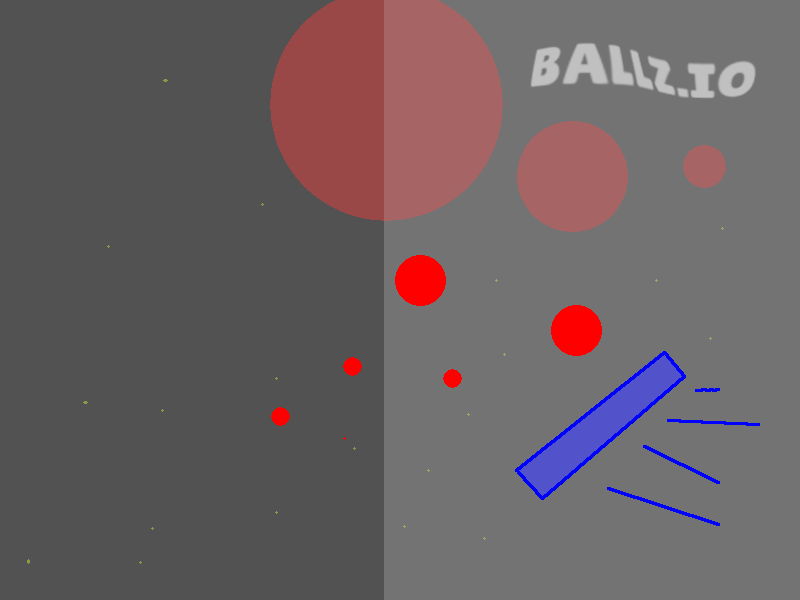
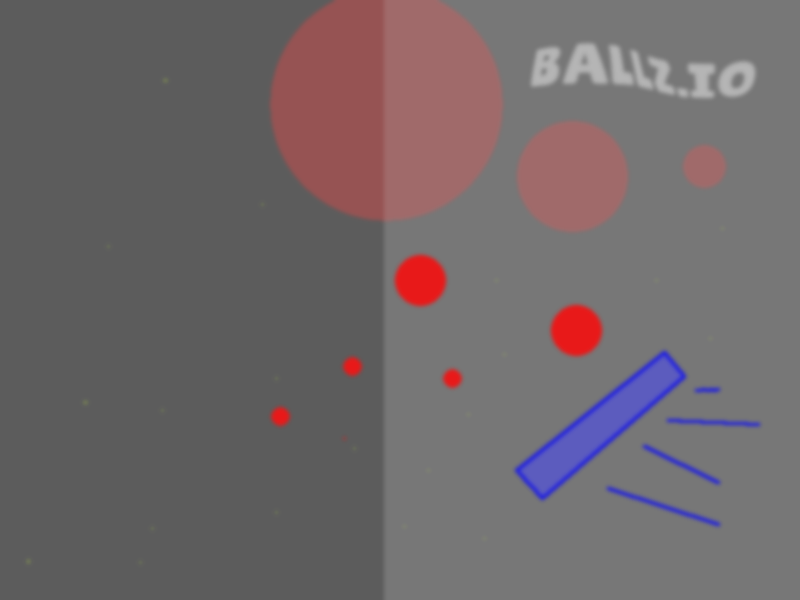
cbej

diff --git a/main.py b/main.py
@@ -19,6 +19,14 @@ def preprop_img():
         img.save(f"tmp/bavkgrounds/{i}.png")
     img = Image.open("bavkgrounds/3.png")
     img.save("tmp/bavkgrounds/3.png")
+    img=Image.open("main.png")
+    img = img.filter(ImageFilter.GaussianBlur(2))
+    img = img.point(lambda p: p * 0.9)
+    img.save("mainbg.png")
+    img=Image.open("main.png")
+    img = img.filter(ImageFilter.GaussianBlur(5))
+    img = img.point(lambda p: p * 0.5)
+    img.save("shop.png")
 
 preprop_img()
 previous_time = time.time()
@@ -119,7 +127,31 @@ class bullet:
     def update(self):
         self.x += self.speed * math.sin(math.radians(self.direction))
         self.y -= self.speed * math.cos(math.radians(self.direction))
+font3 = pygame.font.SysFont('arial', 30)
+skins_available = ["blue", "green", "yellow", "purple"]
+skins_color = [BLUE, GREEN, YELLOW, (128, 0, 128)]
+skin = 0
+skin_selector = RadialMenu((0, SCREEN_HEIGHT // 2), 200, skins_available + ["back to main menu"], font3)
+def draw_skin_shop():
+    global skin
+    screen.fill(WHITE)
+    title_font = pygame.font.SysFont('arial', 40)
+    option_font = pygame.font.SysFont('arial', 30)
 
+    title_text = title_font.render("Skin Shop", True, BLACK)
+    screen.blit(title_text, (SCREEN_WIDTH // 2 - title_text.get_width() // 2, 50))
+
+    img=pygame.image.load("shop.png")
+    screen.blit(img, (0,0))
+
+    skin_text = option_font.render(f"Current Skin: {skins_available[skin]}", True, BLACK)
+    screen.blit(skin_text, (SCREEN_WIDTH // 2 - skin_text.get_width() // 2, 100))
+    skin_selector.render(screen)
+
+    #render basket with  skin
+    draw_rotated_rect(screen, skins_color[skin], (SCREEN_WIDTH//4*3, SCREEN_HEIGHT//2), (BASKET_WIDTH, BASKET_HEIGHT), 0)
+
+    pygame.display.flip()
 def draw_main_menu():
     screen.fill(WHITE)
     title_font = pygame.font.SysFont('arial', 40)
@@ -274,7 +306,7 @@ def draw_screen(balls):
     if BROKEN:
         draw_rotated_rect(screen, RED, basket.center, (BASKET_WIDTH, BASKET_HEIGHT), basket_dir)
     else:
-        draw_rotated_rect(screen, BLUE, basket.center, (BASKET_WIDTH, BASKET_HEIGHT), basket_dir)
+        draw_rotated_rect(screen, skins_color[skin], basket.center, (BASKET_WIDTH, BASKET_HEIGHT), basket_dir)
     if currstage != 3:
         for ball in balls:
             pygame.draw.circle(screen, RED, (ball["x"], ball["y"]), BALL_RADIUS)
@@ -510,6 +542,7 @@ def main():
     global currstage
     global tip1_act
     global tip2_act
+    global skin
     global tip3_act
     global tip4_act
     global tip5_act
@@ -546,6 +579,7 @@ def main():
     help_running = False
     running = False
     stats_running = False
+    shop_running = False
     card = False
     boss = False
     global volume
@@ -576,20 +610,41 @@ def main():
                             pygame.mixer.music.load("game.mp3")
                             pygame.mixer.music.play(-1)
                         elif main_radbar.get_index() == 1:
-                            options_running = True
+                            shop_running = True
                             menu_running = False
                         elif main_radbar.get_index() == 2:
+                            options_running = True
+                            menu_running = False
+                        elif main_radbar.get_index() == 3:
                             help_running = True
                             menu_running = False
-                        elif main_radbar.get_index() == 4:
+                        elif main_radbar.get_index() == 5:
                             menu_running = False
                             pygame.quit()
                             sys.exit()
-                        elif main_radbar.get_index() == 3:
+                        elif main_radbar.get_index() == 4:
                             stats_running = True
                             menu_running = False
                     else:
                         main_radbar.update(event.key)
+            clock.tick(FPS*4)
+        if shop_running:
+            draw_skin_shop()
+            for event in pygame.event.get():
+                if event.type == pygame.QUIT:
+                    shop_running = False
+                    pygame.quit()
+                    sys.exit()
+                elif event.type == pygame.KEYDOWN:
+                    if event.key == pygame.K_RETURN:
+                        if skin_selector.get_index() == 4:
+                            shop_running = False
+                            menu_running = True
+                        else:
+                            skin = skin_selector.get_index()
+                            print(skin)
+                    else:
+                        skin_selector.update(event.key)
             clock.tick(FPS*4)
         if stats_running:
             draw_stats_menu()
@@ -699,7 +754,7 @@ def main():
                         speed += decel * -((speed > 0) * 2 - 1)
                     if currstage == 2:
                         speed += decel * -((speed > 0) * 2 - 1) * 2
-                dec_factor = score//10
+                dec_factor = min(score//10,1)
                 if currstage == 2:
                     accel = accel/dec_factor
                 move_basket(keys)
@@ -907,7 +962,7 @@ power_type = None
 score = 0
 stun_count = 0
 
-main_radbar = RadialMenu((0, SCREEN_HEIGHT//2), 200, ["Start Game", "Options", "Help", "Statistics", "Quit"], pygame.font.SysFont('arial', 40))
+main_radbar = RadialMenu((0, SCREEN_HEIGHT//2), 200, ["Start Game", "Shop", "Options", "Help", "Statistics", "Quit"], pygame.font.SysFont('arial', 40))
 tip1= "Tip: Use the arrow keys to select an option, and press Enter to confirm."
 tip2 = "Use the arrow keys to move the basket sideways"
 tip3 = "Catch the balls to score points"
